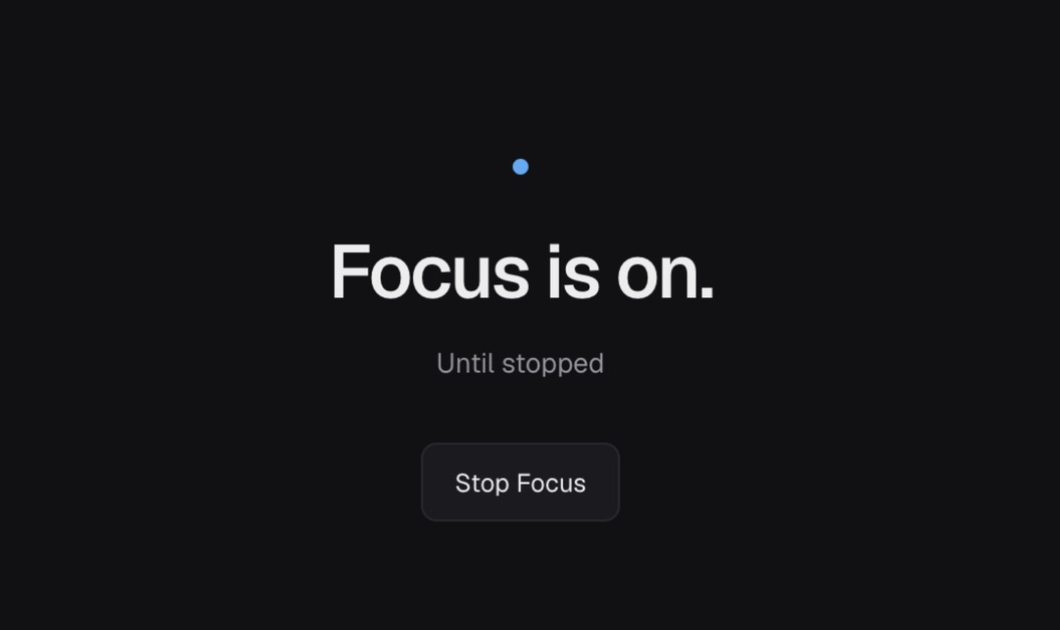
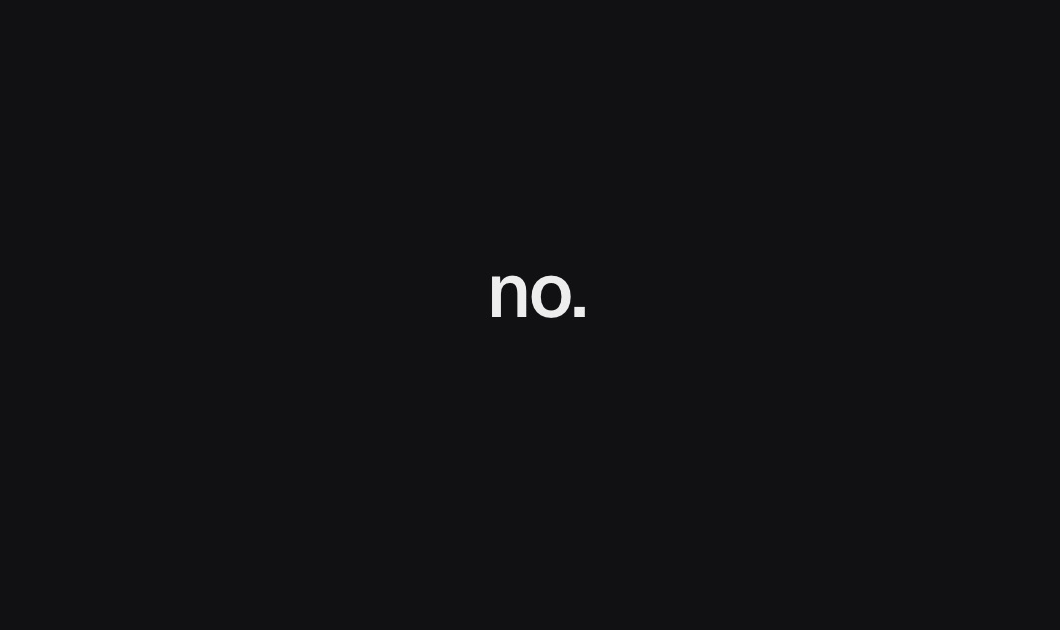
Simplify blocked pages to centered no.

diff --git a/dist-zen/blocked/styles.css b/dist-zen/blocked/styles.css
@@ -1,13 +1,4 @@
 @import url("../assets/theme.css");
+
 body { margin: 0; min-height: 100vh; display: grid; place-items: center; }
-main { width: min(100% - 48px, 460px); text-align: center; padding: 48px 0; }
-.mark { width: 8px; height: 8px; margin: 0 auto 24px; border-radius: 50%; background: var(--accent); }
-h1 { font-size: clamp(30px, 6vw, 38px); font-weight: 550; letter-spacing: -1.2px; margin: 0; }
-.remaining { color: var(--muted); margin: 12px 0 28px; min-height: 22px; font-size: 14px; font-variant-numeric: tabular-nums; }
-.actions { display: flex; gap: 10px; justify-content: center; flex-wrap: wrap; }
-button, a { display: inline-flex; align-items: center; justify-content: center; padding: 10px 16px; min-height: 40px; border: 1px solid var(--line); border-radius: 8px; font: inherit; font-size: 13px; text-decoration: none; color: #ededed; background: var(--surface); cursor: pointer; }
-a { border-color: var(--accent); background: var(--accent); color: #071522; font-weight: 550; }
-button:hover { background: #27272b; }
-a:hover { background: #79bfff; }
-button:disabled { opacity: .5; cursor: default; }
-.error { color: #ffaaa2; font-size: 13px; line-height: 1.5; min-height: 40px; margin: 20px 0 0; overflow-wrap: anywhere; }
+h1 { margin: 0; font-size: 38px; font-weight: 550; letter-spacing: -1.2px; }

diff --git a/dist/blocked/styles.css b/dist/blocked/styles.css
@@ -1,13 +1,4 @@
 @import url("../assets/theme.css");
+
 body { margin: 0; min-height: 100vh; display: grid; place-items: center; }
-main { width: min(100% - 48px, 460px); text-align: center; padding: 48px 0; }
-.mark { width: 8px; height: 8px; margin: 0 auto 24px; border-radius: 50%; background: var(--accent); }
-h1 { font-size: clamp(30px, 6vw, 38px); font-weight: 550; letter-spacing: -1.2px; margin: 0; }
-.remaining { color: var(--muted); margin: 12px 0 28px; min-height: 22px; font-size: 14px; font-variant-numeric: tabular-nums; }
-.actions { display: flex; gap: 10px; justify-content: center; flex-wrap: wrap; }
-button, a { display: inline-flex; align-items: center; justify-content: center; padding: 10px 16px; min-height: 40px; border: 1px solid var(--line); border-radius: 8px; font: inherit; font-size: 13px; text-decoration: none; color: #ededed; background: var(--surface); cursor: pointer; }
-a { border-color: var(--accent); background: var(--accent); color: #071522; font-weight: 550; }
-button:hover { background: #27272b; }
-a:hover { background: #79bfff; }
-button:disabled { opacity: .5; cursor: default; }
-.error { color: #ffaaa2; font-size: 13px; line-height: 1.5; min-height: 40px; margin: 20px 0 0; overflow-wrap: anywhere; }
+h1 { margin: 0; font-size: 38px; font-weight: 550; letter-spacing: -1.2px; }

diff --git a/src/blocked/styles.css b/src/blocked/styles.css
@@ -1,13 +1,4 @@
 @import url("../assets/theme.css");
+
 body { margin: 0; min-height: 100vh; display: grid; place-items: center; }
-main { width: min(100% - 48px, 460px); text-align: center; padding: 48px 0; }
-.mark { width: 8px; height: 8px; margin: 0 auto 24px; border-radius: 50%; background: var(--accent); }
-h1 { font-size: clamp(30px, 6vw, 38px); font-weight: 550; letter-spacing: -1.2px; margin: 0; }
-.remaining { color: var(--muted); margin: 12px 0 28px; min-height: 22px; font-size: 14px; font-variant-numeric: tabular-nums; }
-.actions { display: flex; gap: 10px; justify-content: center; flex-wrap: wrap; }
-button, a { display: inline-flex; align-items: center; justify-content: center; padding: 10px 16px; min-height: 40px; border: 1px solid var(--line); border-radius: 8px; font: inherit; font-size: 13px; text-decoration: none; color: #ededed; background: var(--surface); cursor: pointer; }
-a { border-color: var(--accent); background: var(--accent); color: #071522; font-weight: 550; }
-button:hover { background: #27272b; }
-a:hover { background: #79bfff; }
-button:disabled { opacity: .5; cursor: default; }
-.error { color: #ffaaa2; font-size: 13px; line-height: 1.5; min-height: 40px; margin: 20px 0 0; overflow-wrap: anywhere; }
+h1 { margin: 0; font-size: 38px; font-weight: 550; letter-spacing: -1.2px; }

diff --git a/dist-zen/blocked/index.html b/dist-zen/blocked/index.html
@@ -4,19 +4,10 @@
   <meta charset="utf-8">
   <meta name="viewport" content="width=device-width, initial-scale=1">
   <title>Focus</title>
+  <link rel="preload" href="../assets/Geist.woff2" as="font" type="font/woff2" crossorigin>
   <link rel="stylesheet" href="styles.css">
 </head>
 <body>
-  <main>
-    <div class="mark" aria-hidden="true"></div>
-    <h1 id="heading">Focus is on.</h1>
-    <p id="remaining" class="remaining" role="status">Checking session…</p>
-    <div class="actions">
-      <a id="studio" href="https://studio.youtube.com/" hidden>Open YouTube Studio</a>
-      <button id="stop" type="button" disabled>Stop Focus</button>
-    </div>
-    <p id="error" class="error" role="alert"></p>
-  </main>
-  <script src="index.js"></script>
+  <main><h1>no.</h1></main>
 </body>
 </html>

diff --git a/dist/blocked/index.html b/dist/blocked/index.html
@@ -4,19 +4,10 @@
   <meta charset="utf-8">
   <meta name="viewport" content="width=device-width, initial-scale=1">
   <title>Focus</title>
+  <link rel="preload" href="../assets/Geist.woff2" as="font" type="font/woff2" crossorigin>
   <link rel="stylesheet" href="styles.css">
 </head>
 <body>
-  <main>
-    <div class="mark" aria-hidden="true"></div>
-    <h1 id="heading">Focus is on.</h1>
-    <p id="remaining" class="remaining" role="status">Checking session…</p>
-    <div class="actions">
-      <a id="studio" href="https://studio.youtube.com/" hidden>Open YouTube Studio</a>
-      <button id="stop" type="button" disabled>Stop Focus</button>
-    </div>
-    <p id="error" class="error" role="alert"></p>
-  </main>
-  <script src="index.js"></script>
+  <main><h1>no.</h1></main>
 </body>
 </html>

diff --git a/src/blocked/index.html b/src/blocked/index.html
@@ -4,19 +4,10 @@
   <meta charset="utf-8">
   <meta name="viewport" content="width=device-width, initial-scale=1">
   <title>Focus</title>
+  <link rel="preload" href="../assets/Geist.woff2" as="font" type="font/woff2" crossorigin>
   <link rel="stylesheet" href="styles.css">
 </head>
 <body>
-  <main>
-    <div class="mark" aria-hidden="true"></div>
-    <h1 id="heading">Focus is on.</h1>
-    <p id="remaining" class="remaining" role="status">Checking session…</p>
-    <div class="actions">
-      <a id="studio" href="https://studio.youtube.com/" hidden>Open YouTube Studio</a>
-      <button id="stop" type="button" disabled>Stop Focus</button>
-    </div>
-    <p id="error" class="error" role="alert"></p>
-  </main>
-  <script src="index.js"></script>
+  <main><h1>no.</h1></main>
 </body>
 </html>

diff --git a/README.md b/README.md
@@ -15,7 +15,7 @@ No server, tracking, account, or API keys. Sessions stay in each browser. Your X
 | --- | --- |
 | <img src="docs/screenshots/helium-popup.png" alt="Focus enabled in Helium’s toolbar popup" width="320"> | <img src="docs/screenshots/zen-popup.png" alt="Focus enabled in Zen’s toolbar popup" width="320"> |
 
-Instagram redirected to the local block screen with Focus on:
+Blocked pages show only “no.”; stop Focus from the toolbar popup:
 
 <img src="docs/screenshots/blocked.png" alt="Focus blocks Instagram while a session is active" width="650">
 
